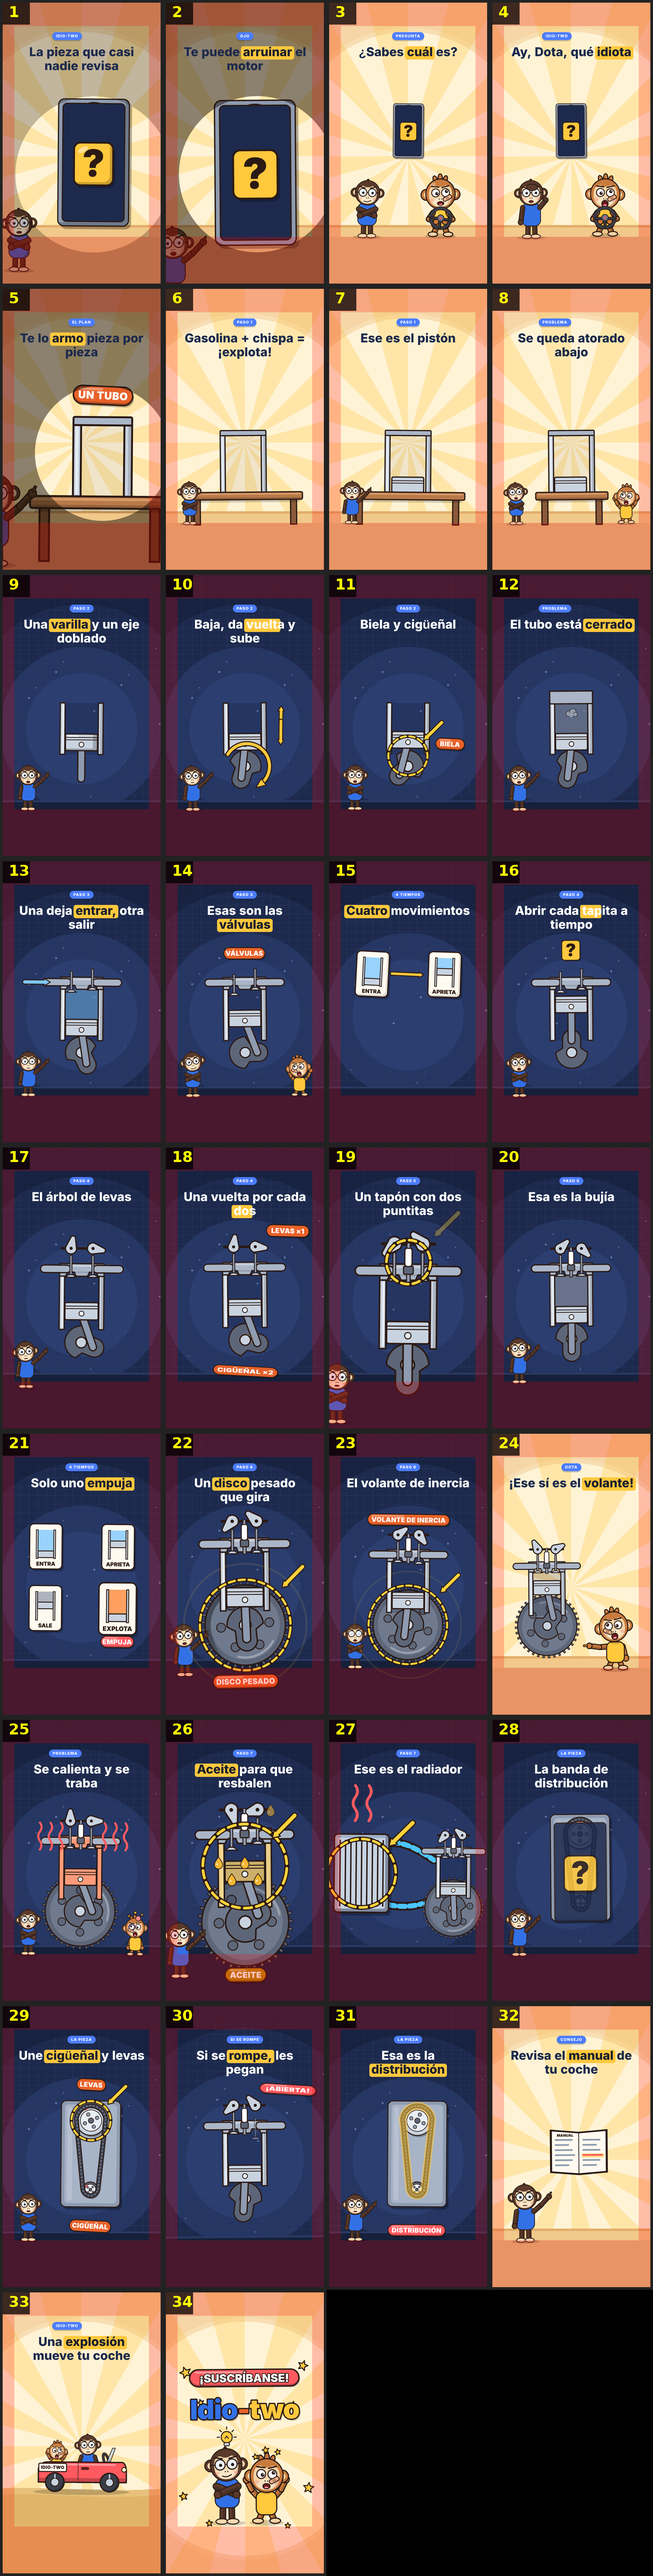
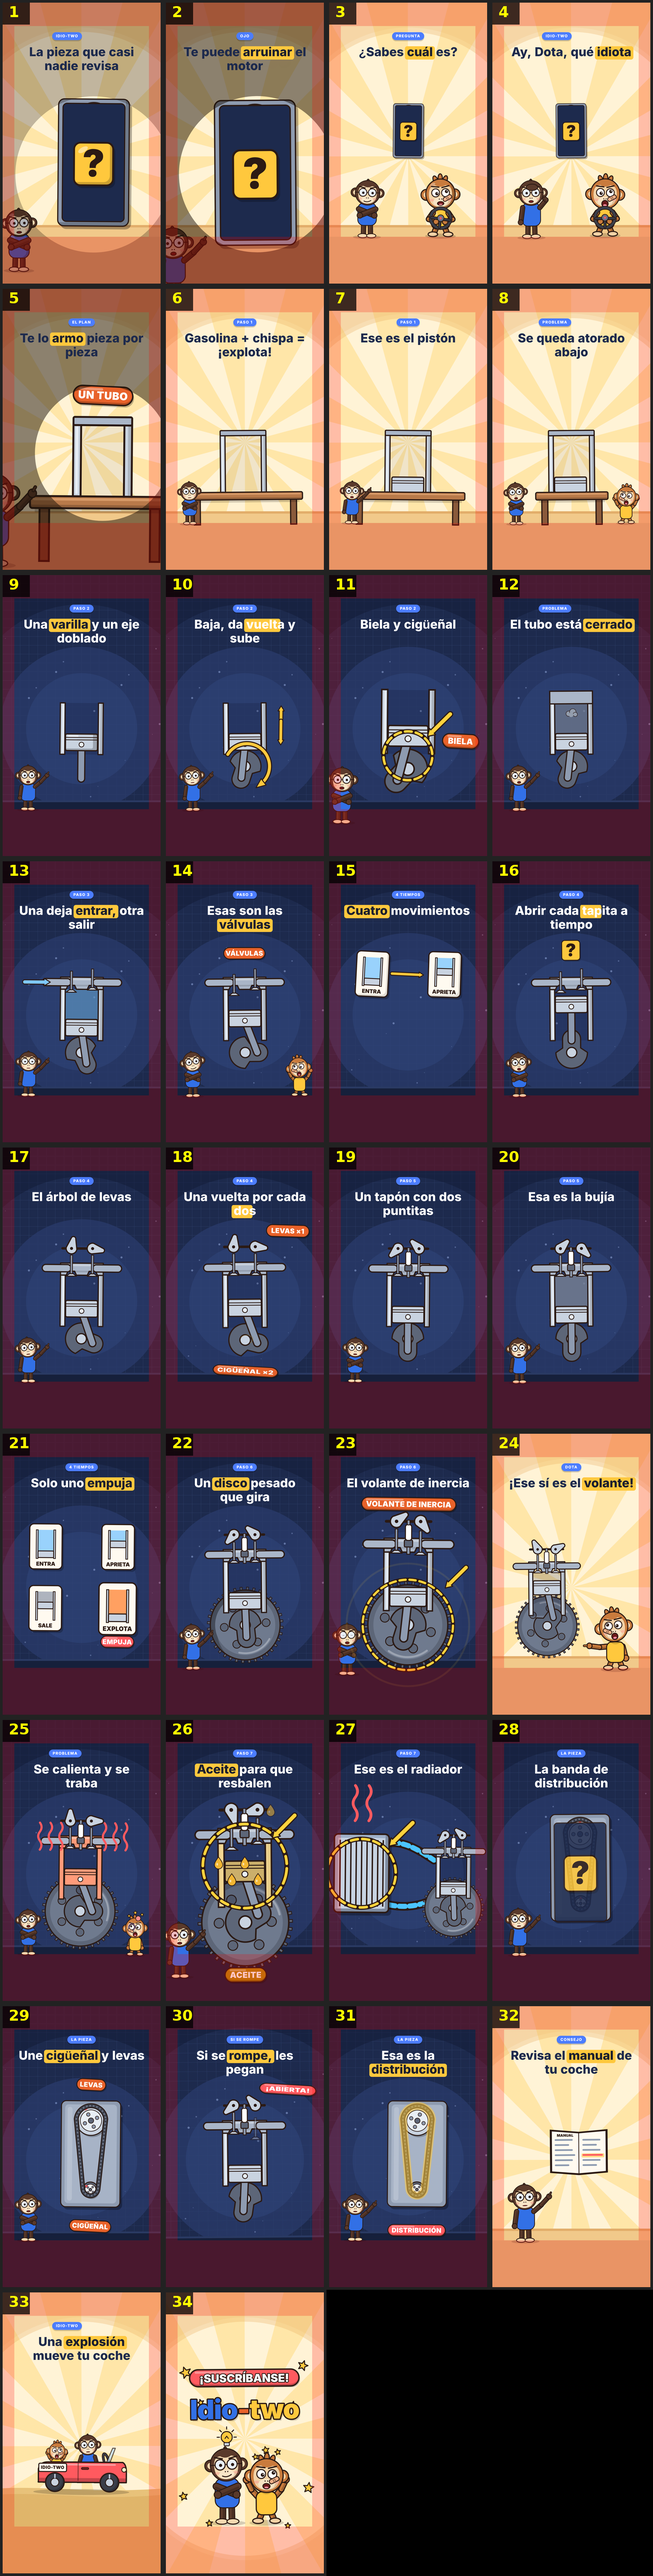
Motores: one marker per piece, when it gets its name
Claude-Session: https://claude.ai/code/session_01CCYL4pfB5svmsfTYwXD8rF

diff --git a/videos/motores/visuals.ts b/videos/motores/visuals.ts
@@ -254,11 +254,10 @@ defineVisuals({
   },
   plug: {
     bg: MO.navy,
-    html: () => mvPrint(`${moEngine('e', { valves: true, pipes: true, cams: true, plug: true })}${moTag('tg', 820, 600, 'DOS PUNTITAS', undefined, 38)}${mvTicoC()}`),
+    html: () => mvPrint(`${moEngine('e', { valves: true, pipes: true, cams: true, plug: true })}${mvTicoC()}`),
     anim(tl, s, K, $) {
       mvBase(tl, s, $, false); mvHold(tl, $, 180, s);
       tl.set($('#e-plug'), { opacity: 0 }, s.t0).fromTo($('#e-plug'), { y: -500, opacity: 1 }, { y: 0, duration: 0.45, ease: 'bounce.out', immediateRender: false }, K('plug') - 0.3);
-      moPopIn(tl, $('#tg'), K('plug') + 0.5);
       mvTalk(tl, $, 'tc', s, 'tico');
     },
   },
